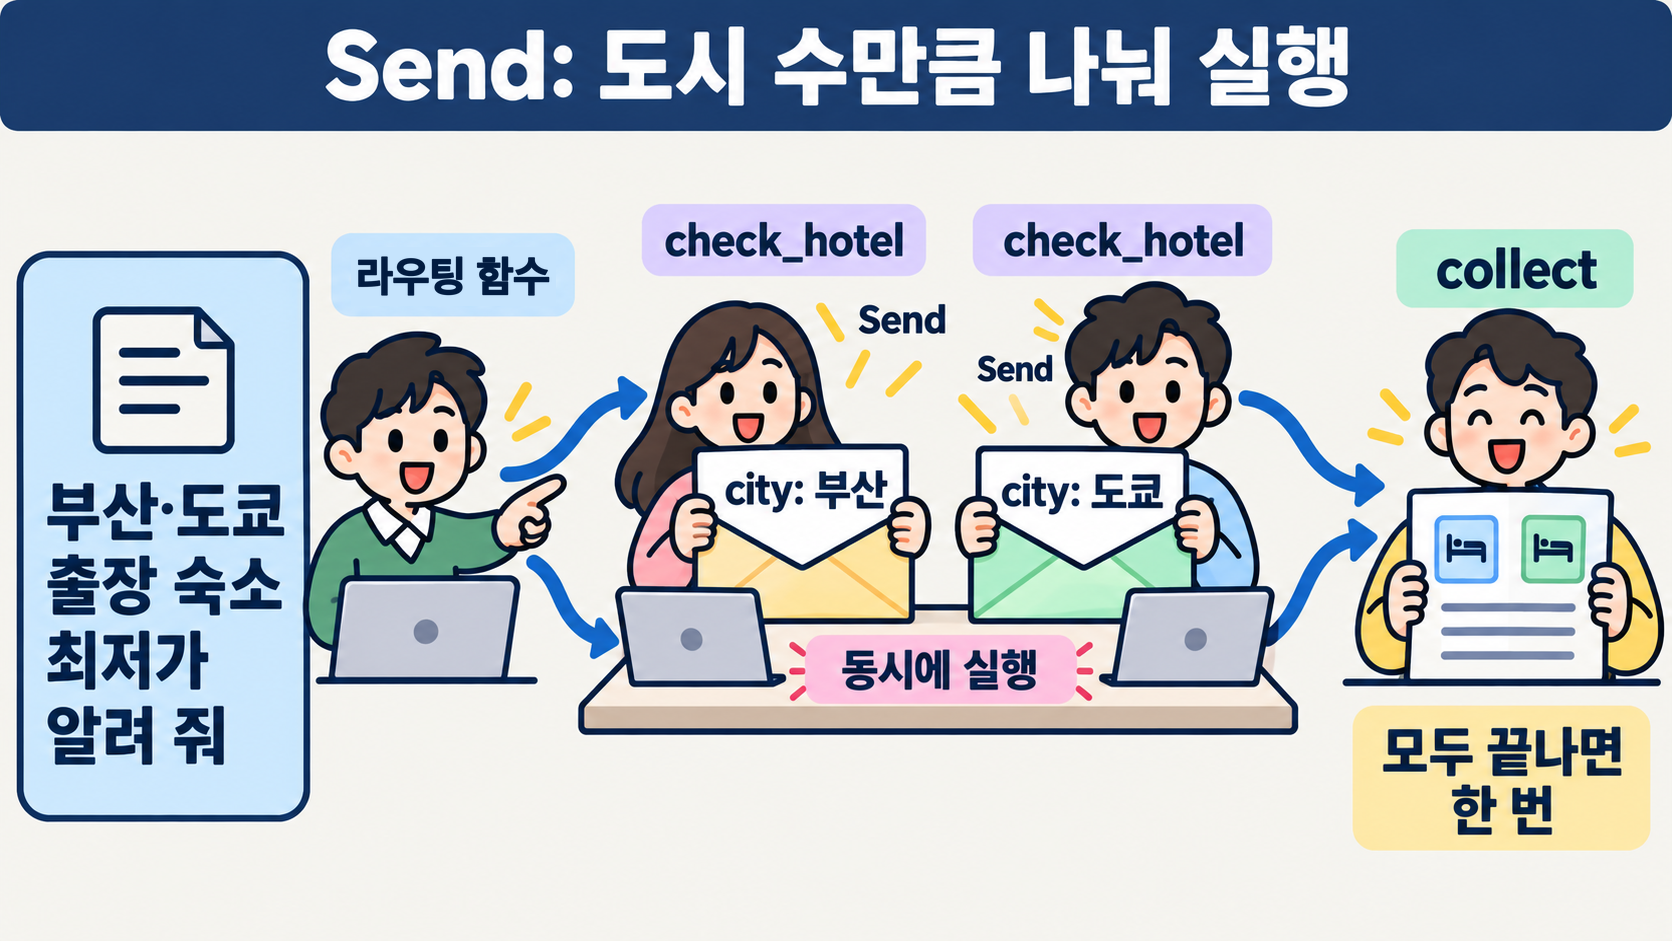
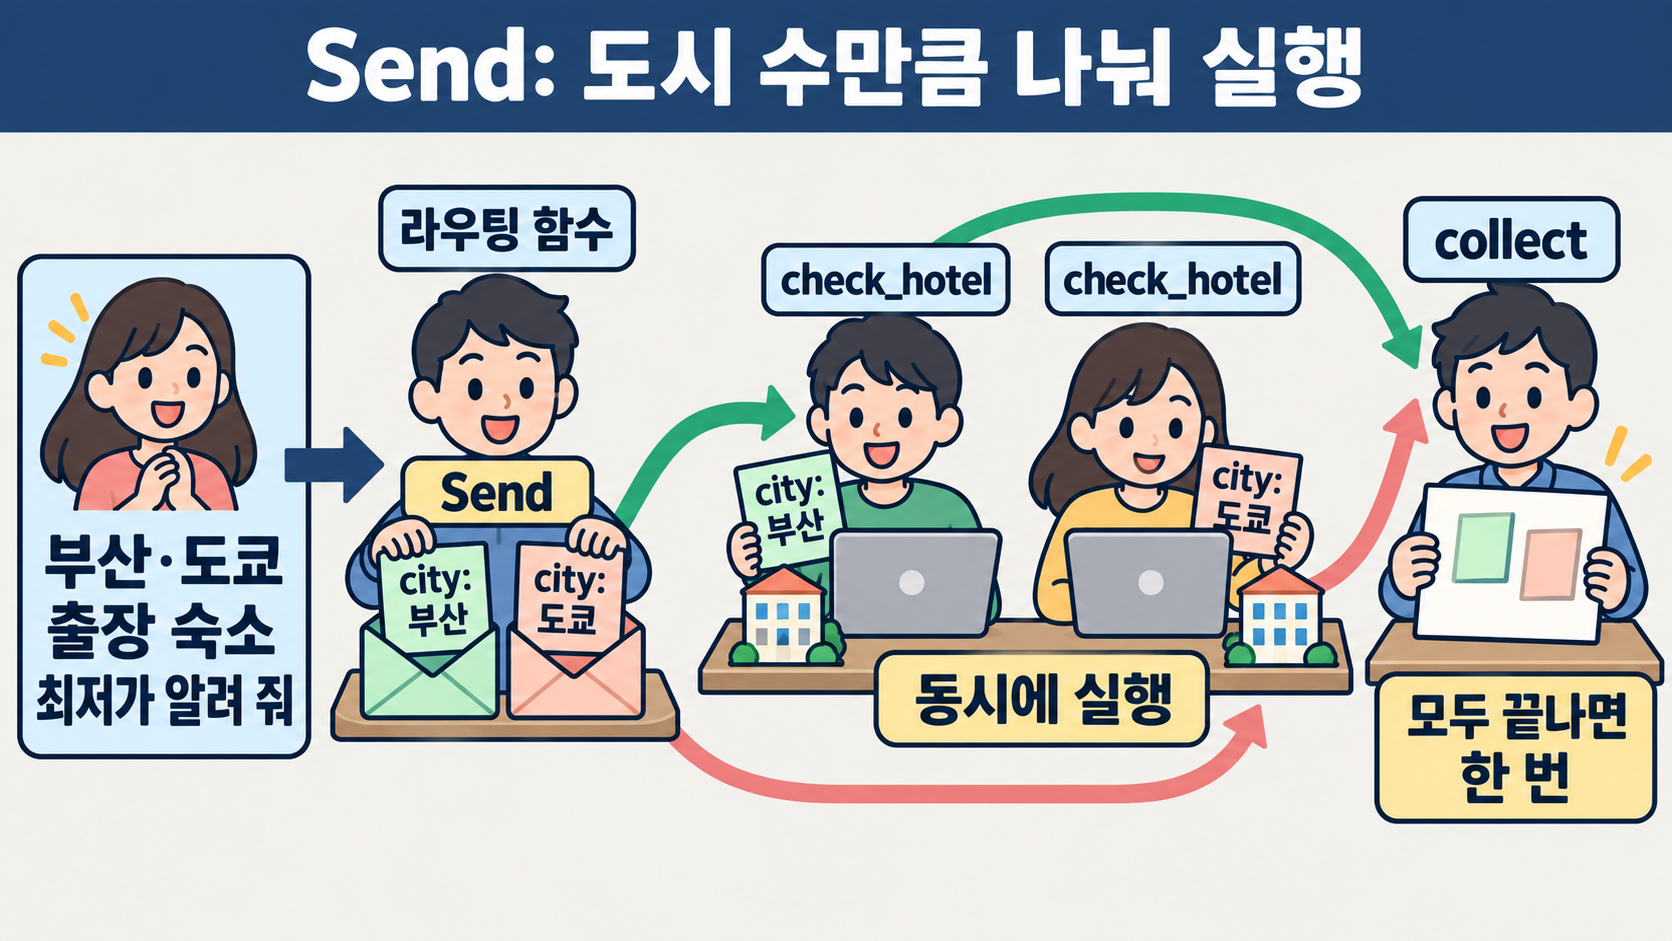
Add day55 capstone run examples and fix broken Korean labels in two figures

diff --git a/day55_멀티에이전트_협업/종합실습01/starter/README.md b/day55_멀티에이전트_협업/종합실습01/starter/README.md
@@ -67,6 +67,14 @@ cd day55_멀티에이전트_협업/종합실습01/starter
 uv run python -m app.main "9월 콘텐츠 유입이 8월보다 30% 가까이 빠졌어. 원인과 대응안 보고서 써 줘"
 ```
 
+다른 요청 예시 (데이터는 7~9월 사내 자료라 그 안에서 묻습니다)
+
+```bash
+uv run python -m app.main "유튜브만 봐 줘. 9월 노출 클릭률 하락이 썸네일 정책 변경 때문인지 확인하고 개선안을 써 줘"
+uv run python -m app.main "9월 중순 인스타그램 유입이 급증했어. 다음 달 예산을 인스타그램에 더 넣어도 되는지 판단해 줘"
+uv run python -m app.main "블로그 발행을 주 4편에서 주 2편으로 줄인 영향과 다시 늘리면 회복될지 분석해 줘"
+```
+
 한 번에 3~6분 걸립니다(반려 라운드가 있으면 더 걸립니다). `supervisor:`로 시작하는 줄에 몇 번째로 일을 맡기는지, 누구를 골랐는지, Jev 의 근거 충분 확률이, `analysis_planner:`와 `reviewer:` 줄에 분석 작업 목록과 검수 판정이 찍힙니다.
 MCP 서버가 뜰 때 서버 프로그램이 직접 찍는 기동 메시지가 섞여 나옵니다. `supervisor:`, `analysis_planner:`, `data_analyst:`, `doc_reader:`, `web_researcher:`, `report_writer:`, `reviewer:`로 시작하는 줄만 보면 흐름을 따라갈 수 있습니다.
 

diff --git a/day55_멀티에이전트_협업/종합실습02/starter/README.md b/day55_멀티에이전트_협업/종합실습02/starter/README.md
@@ -65,6 +65,14 @@ cd day55_멀티에이전트_협업/종합실습02/starter
 uv run python -m app.main "보고서 기준으로 다음 달 블로그 글 1편과 쇼츠 대본 1편 만들어 줘"
 ```
 
+다른 요청 예시 (요청에 적은 주제로 조사하고 씁니다)
+
+```bash
+uv run python -m app.main "무선 이어폰 고르는 법을 비교표와 실패 사례 중심으로 블로그 글과 쇼츠 대본으로 만들어 줘"
+uv run python -m app.main "직장인이 AI 코딩 도구를 고르는 기준으로 블로그 글과 쇼츠 대본 만들어 줘"
+uv run python -m app.main "K-POP 팬 앱(위버스, 버블) 고르는 기준으로 블로그 글과 쇼츠 대본 만들어 줘"
+```
+
 한 번 실행에 3~5분이 걸립니다. 화면에 계획한 조사 작업, supervisor 가 고른 다음 담당, 검수 판정이 차례로 찍힙니다.
 MCP 서버는 도구를 부를 때마다 새로 뜨고, 뜰 때마다 기동 메시지(`Tavily MCP server running on stdio` 등)를 화면에 섞어 냅니다. 서버 프로그램이 직접 찍는 메시지라 파이썬 쪽에서 끄지 못합니다. `planner:`, `researcher:`, `supervisor:`, `writer:`, `reviewer:`, `publisher:` 로 시작하는 줄만 보면 흐름을 따라갈 수 있습니다.
 
